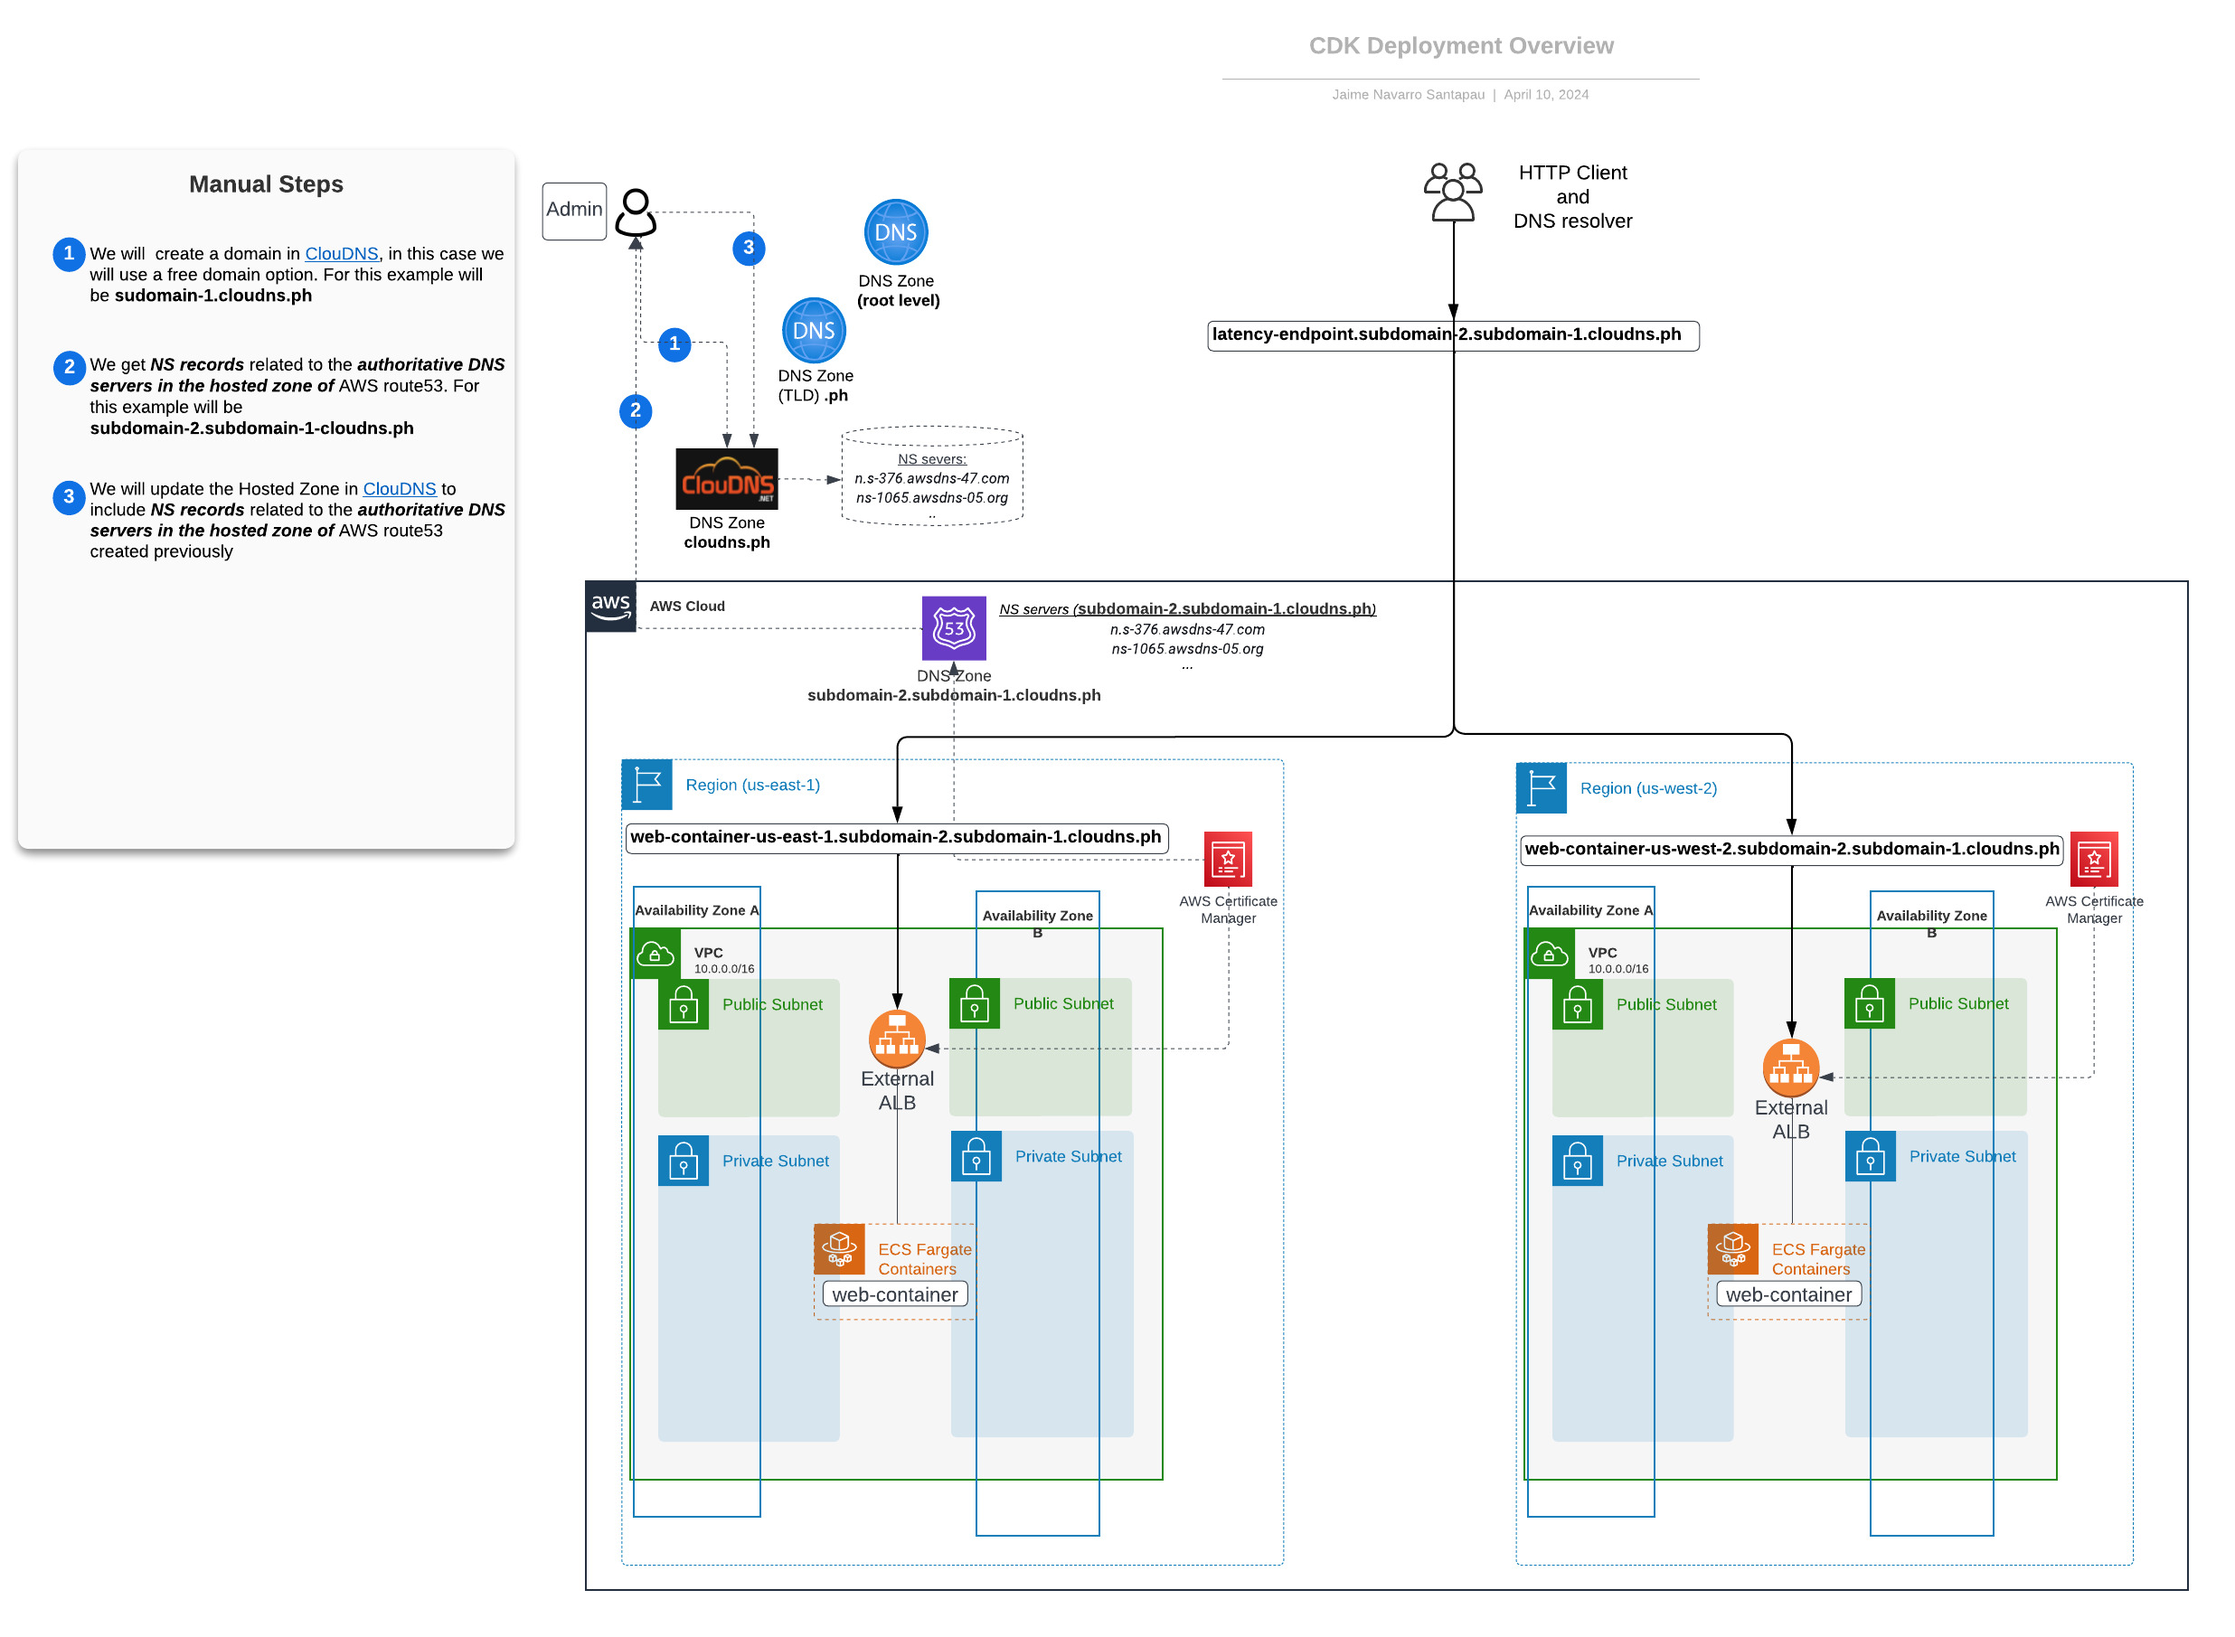
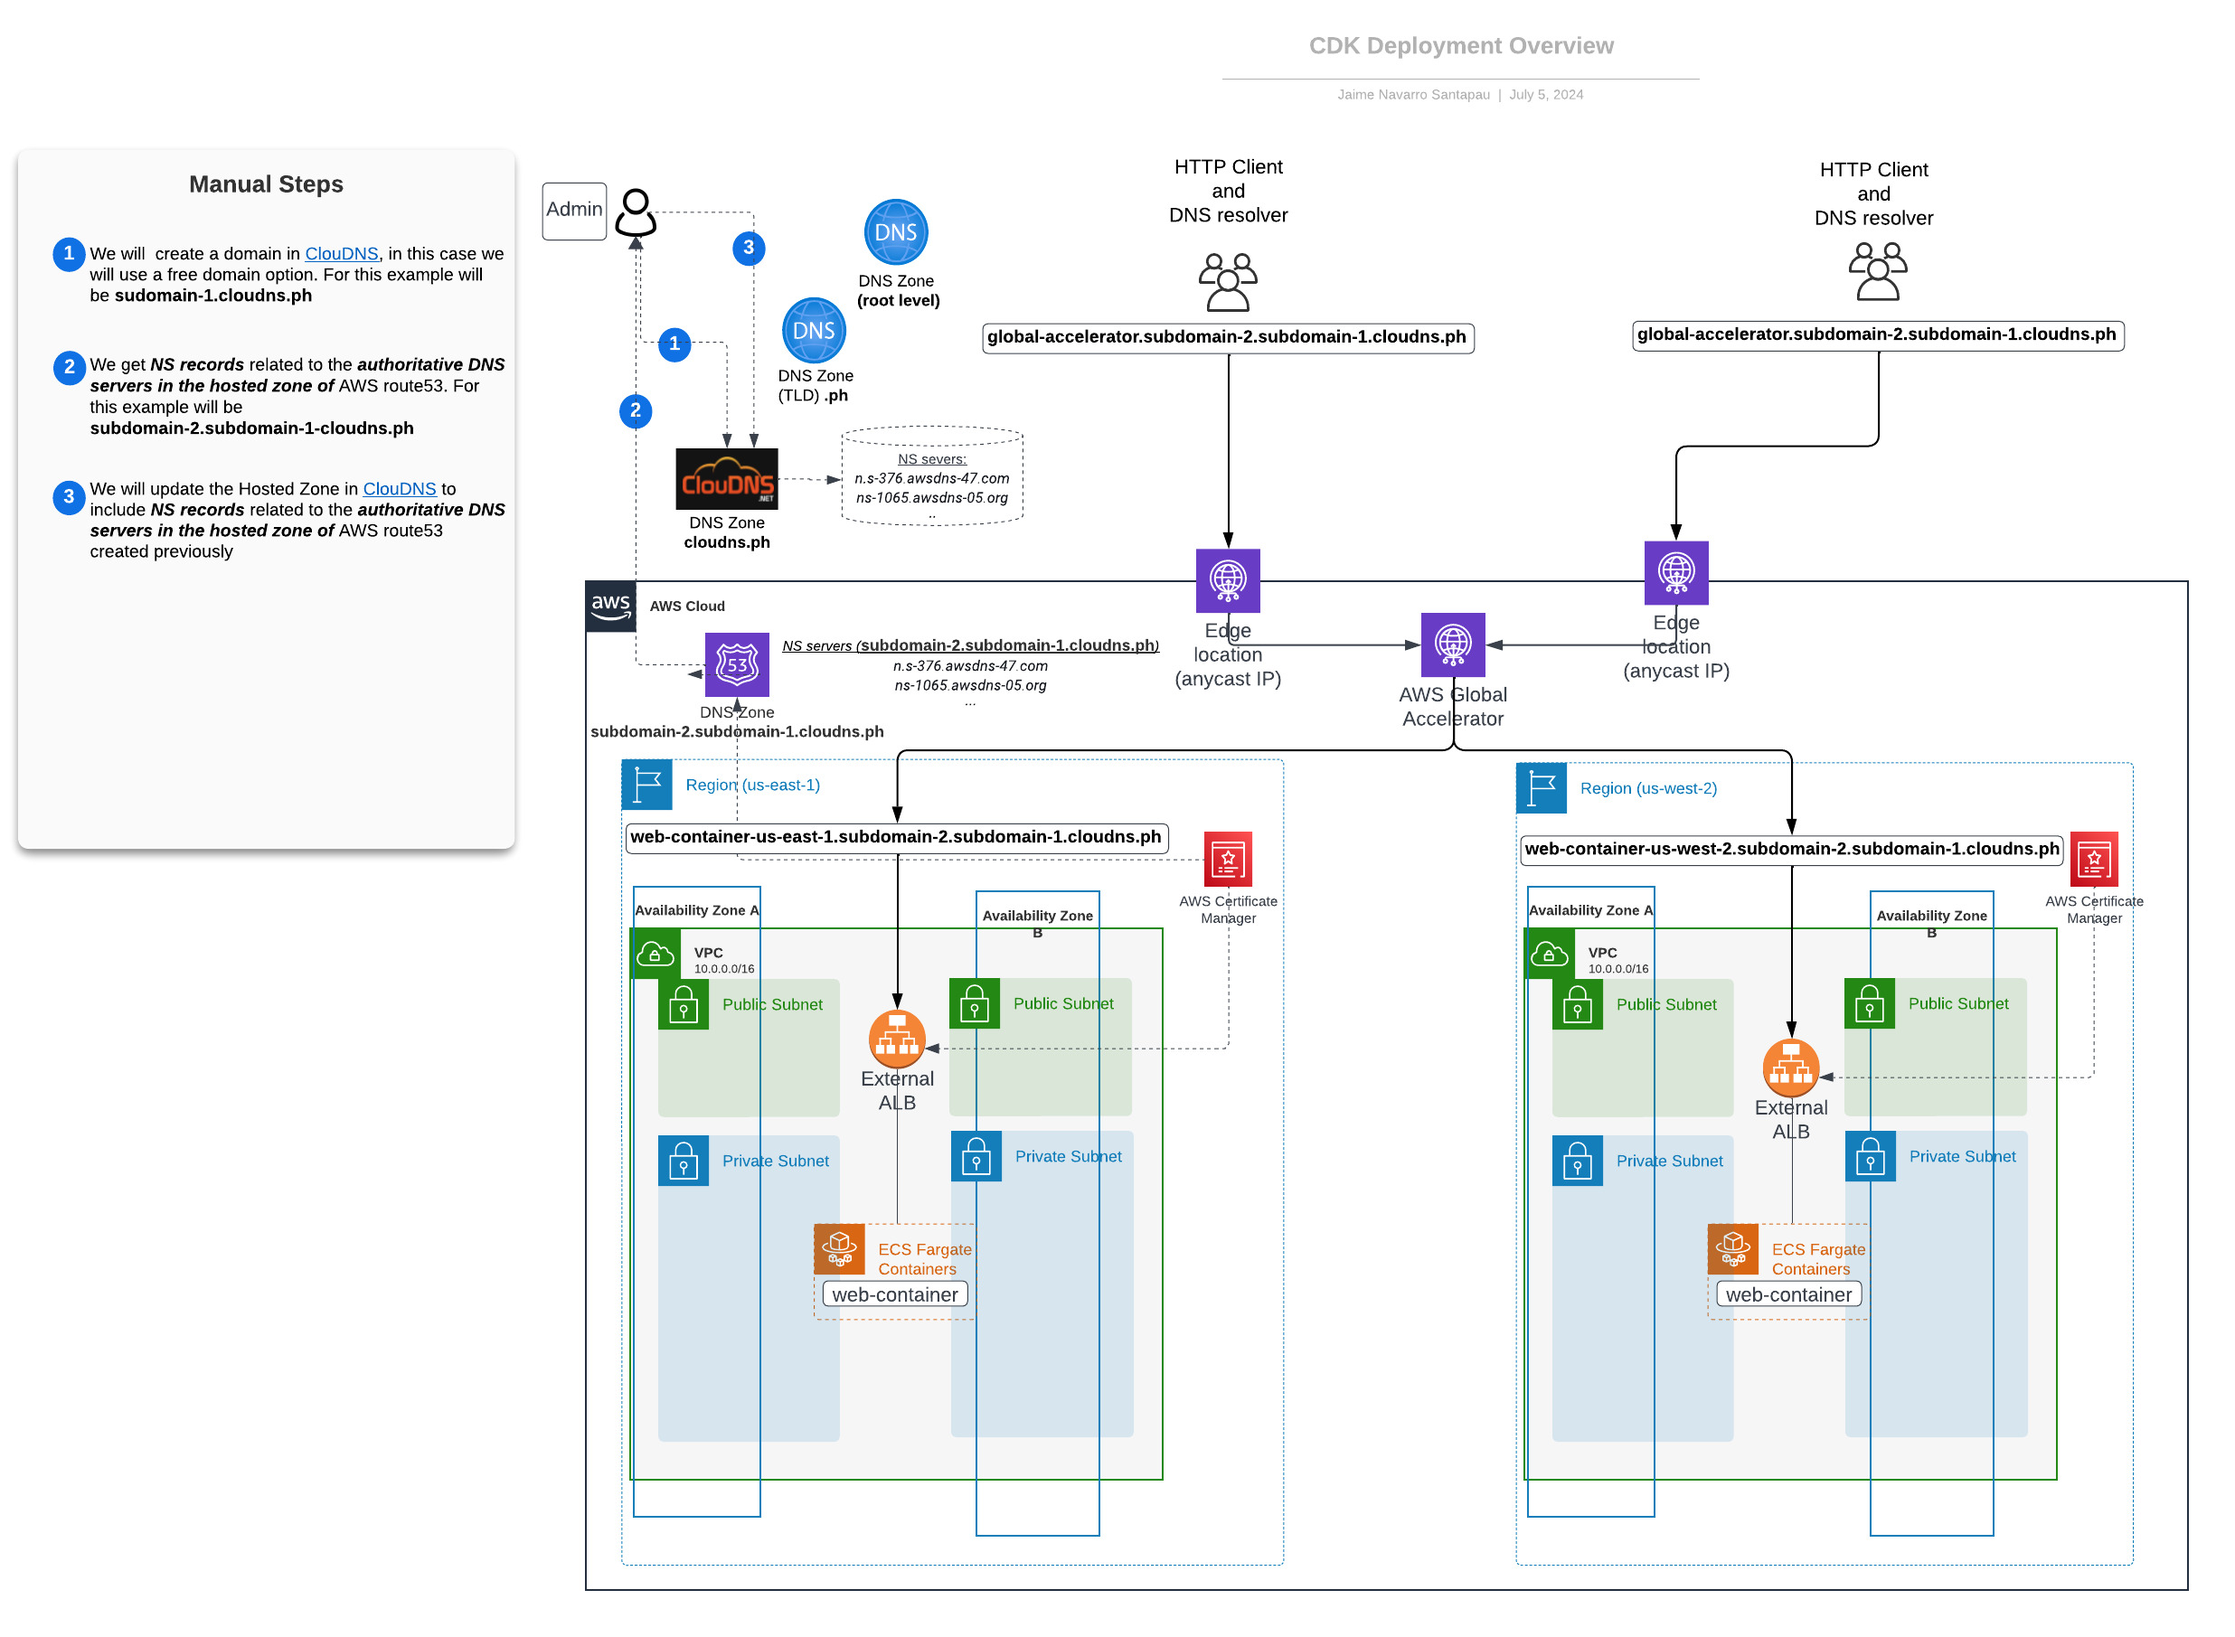
Blog post 4 - Added documentation - Fix some code

diff --git a/infrastructure/blog_post_4/lib/stage-2/stages/deploy-service-and-global-accelerator-stage.ts b/infrastructure/blog_post_4/lib/stage-2/stages/deploy-service-and-global-accelerator-stage.ts
@@ -1,7 +1,7 @@
 import { Stage, StageProps } from 'aws-cdk-lib';
 import { Construct } from 'constructs';
 import { DeployServiceStack } from '../stacks/deploy-service-stack';
-import { AppConfig, TargetRegions } from '../../../config/environment';
+import { AppConfig } from '../../../config/environment';
 import { DeployGlobalAcceleratorStack } from '../stacks/deploy-global-accelerator-stack';
 import { ApplicationLoadBalancedFargateService } from 'aws-cdk-lib/aws-ecs-patterns';
 
@@ -10,11 +10,9 @@ interface DeploymentServiceStageProps extends StageProps {
 }
 
 /**
- * Stage for deploying the service in all the regions
- * 1. Creates certificate
- * 2. Deploys an application load balancer
- * 3. Deploys a container inside Fargate cluster
- * 4. Creates public DNS records to reach the load balancer
+ * Stage for deploying the service in multiple regions and global accelerator
+ * 1. Deploys the service in us-east-1 and us-west-2
+ * 2. Deploys the global accelerator in us-west-2
  */
 export class DeployServiceAndGlobalAcceleratorStage extends Stage {
   constructor(scope: Construct, id: string, props: DeploymentServiceStageProps) {
@@ -26,7 +24,7 @@ export class DeployServiceAndGlobalAcceleratorStage extends Stage {
       terminationProtection: false,
       env: {
         region: 'us-east-1',
-        account: process.env.CDK_DEPLOY_ACCOUNT || process.env.CDK_DEFAULT_ACCOUNT
+        account: process.env.CDK_DEPLOY_ACCOUNT ?? process.env.CDK_DEFAULT_ACCOUNT
       },
       stackName: `${AppConfig.APP_NAME}-service`,
       crossRegionReferences: true
@@ -37,7 +35,7 @@ export class DeployServiceAndGlobalAcceleratorStage extends Stage {
       terminationProtection: false,
       env: {
         region: 'us-west-2',
-        account: process.env.CDK_DEPLOY_ACCOUNT || process.env.CDK_DEFAULT_ACCOUNT
+        account: process.env.CDK_DEPLOY_ACCOUNT ?? process.env.CDK_DEFAULT_ACCOUNT
       },
       stackName: `${AppConfig.APP_NAME}-service`,
       crossRegionReferences: true
@@ -52,7 +50,7 @@ export class DeployServiceAndGlobalAcceleratorStage extends Stage {
         terminationProtection: false,
         env: {
           region: 'us-west-2',
-          account: process.env.CDK_DEPLOY_ACCOUNT || process.env.CDK_DEFAULT_ACCOUNT
+          account: process.env.CDK_DEPLOY_ACCOUNT ?? process.env.CDK_DEFAULT_ACCOUNT
         },
         stackName: `${AppConfig.APP_NAME}-global-accelerator`,
         crossRegionReferences: true,

diff --git a/infrastructure/blog_post_4/lib/stage-2/stacks/deploy-global-accelerator-stack.ts b/infrastructure/blog_post_4/lib/stage-2/stacks/deploy-global-accelerator-stack.ts
@@ -11,8 +11,13 @@ import { ApplicationLoadBalancedFargateService } from 'aws-cdk-lib/aws-ecs-patte
 interface DeployGlobalAcceleratorStackProps extends StackProps {
   appLoadBalancedFargateServices: Array<ApplicationLoadBalancedFargateService>;
 }
+
 /**
- * Stack for deploying the global accelerator in us-west-2
+ * Stack for deploying the global accelerator
+ * 1. Creates a global accelerator
+ * 2. Creates a DNS record for the global accelerator
+ * 3. Creates a listener for the global accelerator
+ * 4. Adds the application load balancer endpoints to the listener
  */
 export class DeployGlobalAcceleratorStack extends Stack {
   constructor(scope: Construct, id: string, props: DeployGlobalAcceleratorStackProps) {
@@ -28,7 +33,7 @@ export class DeployGlobalAcceleratorStack extends Stack {
     for (const region of TargetRegions) {
       const appLoadBalancedFargateService = props.appLoadBalancedFargateServices.pop();
 
-      // Create the Load Balancer
+      // Get values from ALB
       const alb = ApplicationLoadBalancer.fromApplicationLoadBalancerAttributes(this, 'alb-' + region, {
         loadBalancerArn: appLoadBalancedFargateService?.loadBalancer.loadBalancerArn ?? '',
         securityGroupId: appLoadBalancedFargateService?.loadBalancer.connections.securityGroups[0].securityGroupId ?? ''

diff --git a/infrastructure/blog_post_4/lib/stage-2/stacks/deploy-service-stack.ts b/infrastructure/blog_post_4/lib/stage-2/stacks/deploy-service-stack.ts
@@ -1,9 +1,9 @@
-import route53 = require('aws-cdk-lib/aws-route53');
-import ec2 = require('aws-cdk-lib/aws-ec2');
-import ecs = require('aws-cdk-lib/aws-ecs');
+import * as route53 from 'aws-cdk-lib/aws-route53'
+import * as ec2 from 'aws-cdk-lib/aws-ec2'
+import * as ecs from 'aws-cdk-lib/aws-ecs'
 import ecs_patterns = require('aws-cdk-lib/aws-ecs-patterns');
 import * as acm from 'aws-cdk-lib/aws-certificatemanager';
-import { CfnOutput, Duration, Stack, StackProps } from 'aws-cdk-lib';
+import { Duration, Stack, StackProps } from 'aws-cdk-lib';
 import { Construct } from 'constructs';
 import { AppConfig } from '../../../config/environment';
 import { LoadBalancerTarget } from 'aws-cdk-lib/aws-route53-targets';

diff --git a/infrastructure/blog_post_4/lib/stage-1/stacks/deploy-basic-infrastructure-stack.ts b/infrastructure/blog_post_4/lib/stage-1/stacks/deploy-basic-infrastructure-stack.ts
@@ -1,6 +1,6 @@
-import route53 = require('aws-cdk-lib/aws-route53');
-import ec2 = require('aws-cdk-lib/aws-ec2');
-import ecs = require('aws-cdk-lib/aws-ecs');
+import * as route53 from 'aws-cdk-lib/aws-route53'
+import * as ec2 from 'aws-cdk-lib/aws-ec2'
+import * as ecs from 'aws-cdk-lib/aws-ecs'
 import { Stack, StackProps } from 'aws-cdk-lib';
 import { Construct } from 'constructs';
 import { AppConfig, PRIMARY_REGION } from '../../../config/environment';
